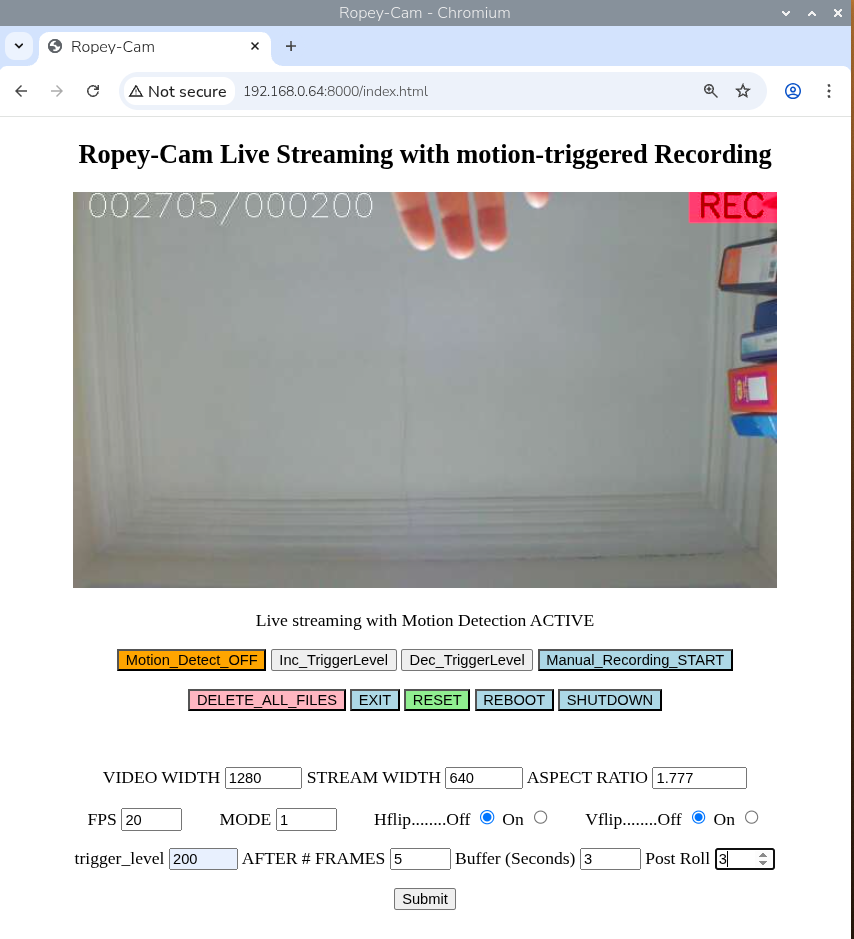
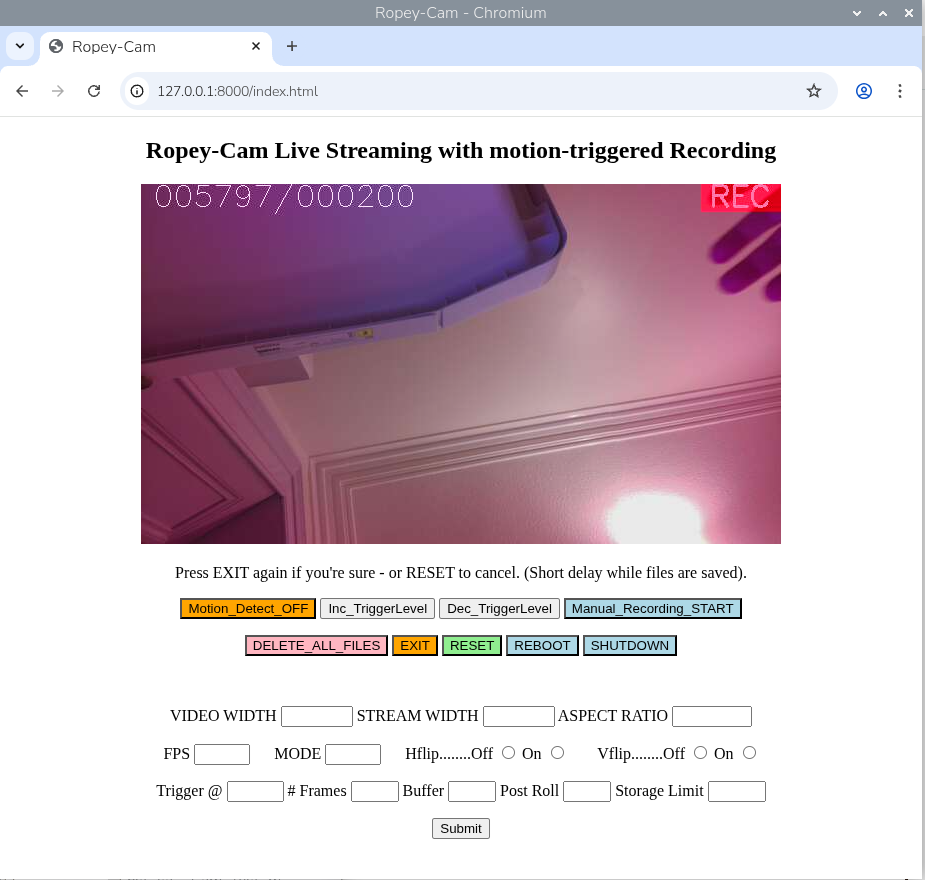
Update README and docs to reflect the latest changes to the application

diff --git a/docs/general_notes.md b/docs/general_notes.md
@@ -10,49 +10,67 @@ As R-C is based on Picamera2/libcamera it should be compatible with all Raspberr
 #### Video sizes and FrameRates
 The default configuration is 1280x720 @ 20fps for the recorded video, and 640x360 (at the same framerate) for the stream to the browser and is conservative and 'should just work' on any supported combination of Pi + Camera module.
 
-Full HD 1920x1080 at 30 fps for the recorded video is best with Pi 4 and above.
+Full HD 1920x1080 at 30 fps for the recorded video is best with Pi 4 and above, although Full HD @ 20fps has been tested successfully on a Pi3A+.
  
-In 4:3 (1.333) aspect ratio the max recommended resolution is 1600x1200, absolute limit is 1672x1254.
+In 4:3 (1.333) aspect ratio the max recommended VIDEO WIDTH is 1600 pixels giving a 1600x1200 frame size.
+
+
+## Description of configuration entry inputs
+----
  
 ![Extract of screenshot showing configuration input section](config_entry_panel.png)
 
-## Description of configuration entry inputs
-When first run R-C will read in the configuration file ropey.ini and apply the values to the relevant application constants and variables. These values can be updated using the input fields, either with individual entries or in any combination followed a press of the Submit button. 
-#### Configuration Fields
+---
+When first run R-C will read in the configuration file ropey.ini and apply the values to the relevant application constants and variables. These values can be updated using the input fields, either with individual entries or in any combination followed by a press of the Submit button. 
+### Configuration Fields
 
-The VIDEO WIDTH field will accept values from 1024 to 1920 in steps of 32 pixels, to match the optimal alignments supported by the hardware.
-
-The STREAM WIDTH will accept values from 512 to 1280 in steps of 128 pixels to match the Pi5 hardware alignments. (Earlier models supported steps of 64 pixels).
-
-The ASPECT RATIO can be either 1.333 or 1.777 (4:3 or 16:9), and is used to calculate the relevant HEIGHT for each stream.
-
+#### VIDEO WIDTH
+The VIDEO WIDTH field will accept values from 1024 to 1920 in steps of 32 pixels, to match the optimal alignments supported by the hardware, and controls the pixel width of the recorded .mp4 video files.
+#### STREAM WIDTH 
+The STREAM WIDTH will accept values from 512 to 1280 in steps of 128 pixels to match all Pi model hardware alignments. (Earlier models supported steps of 64 pixels, but 128 is required for Pi 5).
+#### ASPECT RATIO
+The ASPECT RATIO can be either 1.333 , 1.777 or 2.221  (4:3 , 16:9  or 20:9), and is used to calculate the relevant HEIGHT for each stream.  (No sensor modes support native 20:9 but the system will readily crop a 16:9 mode and give a wide format 20:9 video output or stream).  
+#### FPS
 The framerate FPS can be set between 10 and 30 fps in steps of 5.
-
+#### MODE
 The MODE selects one of the fundamental operating modes of the camera;
 those shown when queried with  `rpicam-hello --list-cameras`
 
 Typically MODE 0 will give a cropped and binned low resolution mode.
-MODE 1 will give a full-frame 2x2 binned mode (except HQ where it gives full-width 16:9 mode and mode 2 is needed for full frame). Other higher modes may be useful in limited circumstances.
 
-The Hflip and Vflip switches can be used to vertically or horizontally mirror the video frame or invert it if used together. 
-### Trigger_level
-After testing the application in the intended environment and finding the optimum trigger_level with the Inc/Dec controls it may be easier to input the value directly, particularly if large changes are needed.
+MODE 1 will give:-
 
-### Consecutive frames of 'motion'
+ a full-frame 2x2 binned 16:9 mode on HQ and V3 camera modules 
+ 
+ a full frame 2x2 binned 4:3 mode on V1 and V2 camera modules
+ 
+Mode 2 will give a full-frame 2x2 binned 4:3 mode on an HQ module.
+
+Other higher modes may be useful in limited circumstances.
+#### Hflip Vflip
+The Hflip and Vflip switches can be used to vertically or horizontally mirror the video frame or invert it if used together. Applies to both recorded and streaming frames. 
+### Trigger @
+After testing the application in the intended environment and finding the optimum trigger_level with the Inc/Dec controls it may be easier to input the trigger-level for motion detection value directly, particularly if large changes are needed.
+
+### # Frames
 To help ensure the triggering is caused by 'true motion' the current default setting of AFTER # FRAMES is to wait for 5 consecutive frames with a 'Frame Difference' above the trigger_level, before activating recording.
  
 
-### Length of Circular Buffer and Post-roll 
-The current default of buffer_seconds is set to 3 seconds, and while longer values are possible, longer values will increase the memory requirements. The post-roll is also set to 3 seconds and can be increased to capture more of the post-motion imagery.
+### Buffer and Post-roll 
+The current default of buffer_seconds is set to 3 seconds, and controls the length of the circular buffer that is capturing frames from before the trigger moment. Longer values are possible, but will increase the memory requirements.
 
+### Post Roll
+The post-roll is also set to a default 3 seconds and can be altered to capture more or less video following the cessation of motion.
+
+### Storage Limit
+
+To help avoid the disk/card running out of storage space the disk_usage is checked after each video file is stored and if the ratio of used/total space exceeds this limit the oldest files will be deleted.
+
+The default is 80% (0.8) A value closer to 1.0 may be useful with lower capacity storage cards. Lower values may be appropriate for large capacity cards. 
     
 ## Configuration storage
-Any configuration changes made are stored internally after being submitted but are not applied 'on-the-fly' and only written to the .ini file on EXIT/SHUTDOWN or REBOOT, to take effect on the next startup.
+Configuration changes are stored internally after being submitted or entered, but are not applied 'on-the-fly'. The changes are written to the configuration ropey.ini file on EXIT/SHUTDOWN or REBOOT, and will take effect when the file is read on the next startup.
 
-
-## Disk storage management
-
-To help avoid the storage disk/card being filled with video files the max_disk_usage is checked after each video file is stored and if the ratio of used/total space exceeds the max the oldest files will be deleted. 
 
 ## Timestamps
 The recorded video files have a date and time stamp embedded in the frame data. The time includes a millisecond record and is useful for checking for dropped frames.  By single-stepping through the recorded files the millisecond counter should advance by ~ 1000 / FRAMES_PER_SECOND each frame. A jump between frames of more than this would indicated dropped frames in the encoded video file.  Playing back the files using mpv media player, rather than the default vlc, can be useful with it's more flexible forward/backward single stepping and easier access to the video properties information.  

diff --git a/README.md b/README.md
@@ -2,9 +2,9 @@
 
 ### Ropey-Cam is a Python-based surveillance camera system, designed for Raspberry Pi single-board computers with attached camera modules. The system provides real-time, low-latency, MJPEG video streaming to web browsers, while simultaneously monitoring for motion, and recording high-quality H.264/.mp4 video clips when motion is detected.
 
-As a long term user of the comprehensive [RPi_Cam_Web_Interface](https://github.com/silvanmelchior/RPi_Cam_Web_Interface) with various RPi cameras (V1,V2 and HQ), it was frustrating not being able to use third party cameras or any of the later RPi camera modules with RCWI. Unable to find any libcamera/Picamera2 based alternatives, and as a learning exercise, work started on a basic -*very basic*- alternative.
+As a long term user of the comprehensive [RPi_Cam_Web_Interface](https://github.com/silvanmelchior/RPi_Cam_Web_Interface) with various RPi cameras (V1,V2 and HQ), it was frustrating not being able to use third party cameras e.g IMX462, nor any of the later RPi camera modules with RCWI. Unable to find any suitable  libcamera/Picamera2 based alternatives, and as a learning exercise, work started on this basic -*very basic*- alternative.
 
-For those looking for more comprehensive features, the very fully featured [raspi-cam-srv](https://github.com/signag/raspi-cam-srv) is recommended.
+For those looking for more comprehensive features, the very fully featured [raspi-cam-srv](https://github.com/signag/raspi-cam-srv) is recommended. 
 
 "Ropey-Cam" reflects its construction methodology: it is assembled from code snippets and examples from the Picamera2 repository, with minimal Python complexity, and uses a multi-threaded architecture to handle concurrent operations. In it's basic form, when installed on a RPi with the standard desktop OS, the only additional dependency is OpenCV.
 
@@ -63,7 +63,7 @@ Brief description of the effect of the control buttons, some of which may be fam
 The button text describes the action that will be taken when the button is pressed, while the colour indicates the current state of that control active/inactive.
 
 **Motion_Detect_Off**
->  will disable the motion detection, but retain the live stream.
+>  will disable the active motion detection, but retain the live stream.
 
 > will be replaced by Motion_Detect_On after being pressed.
 
@@ -93,8 +93,7 @@ The button text describes the action that will be taken when the button is press
 **REBOOT**
 >will reboot the Raspberry Pi. 
 
->Best used in an advanced set-up where Ropey-Cam has been set to 
-start on boot up.
+>Best used in an advanced set-up where Ropey-Cam has been set to start on boot up.
 
 **SHUTDOWN**
 > will shutdown the Raspberry Pi.
@@ -103,7 +102,8 @@ start on boot up.
 
 >All four of the system control buttons change colour to indicate a 'primed' state after the first press. 
 
----
+See the General Notes linked at the bottom of the page for a description of the configuration input fields below the main control buttons.
+
 
 ### Pre-deployment configuration
 
@@ -115,7 +115,7 @@ The default configuration is currently :-
 
 16:9 output with a 1280x720 main stream resolution and 640x360 for the browser stream, and a framerate of 20 fps.
 
-The sensor default mode is set to 1, which will typically give a full frame (16:9) 2x2 binned mode on HQ and V3 cameras, or a full frame (4:3) 2x2 binned mode on V1 or V2 cameras. Details on the available changes are in the General Notes section at the bottom of the page.
+The sensor default mode is set to 1, which will typically give a full frame (16:9) 2x2 binned mode on HQ and V3 cameras, or a full frame (4:3) 2x2 binned mode on V1 or V2 cameras. 
 
 Other recommended steps before deploying are:-
 

diff --git a/docs/lite.md b/docs/lite.md
@@ -1,11 +1,14 @@
 ## Instructions to configure a Lite installation
-Although a full RPiOS is recommended for all Pi variants, if using a Pi Zero2W or 3A+ you may want to run on a Lite installation, to have a bit more memory 'headroom'.
+Although a full RPiOS is recommended for ease of use on all Pi variants, if using a Pi Zero2W or 3A+ you may want to run on a Lite installation, to have a bit more memory 'headroom'. If running a remote headless camera it would be sufficient to use a Lite version of the OS on any Pi model.
 
->Flash a new 64bit Lite image to a card, with SSH configured.
+ To prepare a Lite installation:-
 
->Insert card into the Pi with a connected camera module.
 
->Power on and *wait* until the full image installation and reboot sequences are complete. (Could take up to 15 minutes with a slow SD card! )
+>Flash a new 64bit Lite image to a card,with WiFi, User details and SSH pre-configured.
+
+>Insert the card into the Pi with a connected camera module, and preferably with a monitor connected, (to help follow the progress of the installation process and to take note of the assigned IP address). 
+
+>Power on and *wait* until the full image installation and reboot sequences are complete. (Could take up to 10 minutes with a slow SD card and/or a slower Pi model!)
 
 >SSH in to the Pi and :-
 
@@ -23,7 +26,7 @@ Although a full RPiOS is recommended for all Pi variants, if using a Pi Zero2W o
 
 `./Ropey-Cam.py`
 
-Then continue as per the main page documentation to point a browser at the Raspberry Pi. (Wait about 10-15 seconds to allow all the libraries to load and for the camera to be initialised).
+Then continue as per the main page documentation use another device to to point a browser at the Raspberry Pi. (Wait about 15-30 seconds to allow all the libraries to load and for the camera to be initialised).
 
 At this point you should see the image from the camera in the browser page and messages about the status in the terminal window.
 
@@ -42,6 +45,6 @@ Or, to avoid the console and error messages filling up the nohup output log :-
 
 A screenshot from a Pi5 browser accessing Ropey-Cam.py running on  Pi3A+,  with two ssh sessions attached, one with htop running and a second running Ropey-Cam, along with a samba share connected  - shows markedly lower memory usage than the 'Desktop' version running on a Pi3B that was shown in the main page.
 
-The latency in this case was ~200ms but was much more consistent than the Desktop version. This consistency *may* be due to the lower overall CPU usage under the Lite OS?
+The latency indicated in the screenshot in this case was ~200ms, while the range seen over a number of captures was typically 130-220ms.
 
 ![Lite Installation screenshot from a Pi400](lite_screenshot.png "Screenshot")

diff --git a/docs/start_on_boot.md b/docs/start_on_boot.md
@@ -1,10 +1,13 @@
 ## Start on reboot
 
+In a headless mode it will be convenient if the application starts on any boot of the system. These instructions describe how to achieve this with a systemd service.
+
+
 First create a systemd file on the 'Ropey-Cam' Raspberry Pi :-
 
 `sudo nano /etc/systemd/system/ropeycam.service`
 
-Then insert the following lines, replacing the two instances of username with *your* username
+Then insert the following lines, (if copying and pasting remember to replace the two instances of username with *your* username)
 
 ```
 [Unit]
@@ -24,16 +27,59 @@ WantedBy=multi-user.target
 ```
 Ctrl + X, Y followed by Enter to exit and save.
 
-Then enable the service
+### Inform the system of the new service file
 
 `sudo systemctl daemon-reload`
+
+### Enable the service to start automatically on boot
 
 `sudo sytemctl enable ropeycam.service
 `
 
 After this point the script should be executed on next reboot as well as subsequent reboots.
 
-To temporarily disable, to allow editing of the Ropey-Cam code for example 
+### The following summarises common systemd commands for managing the ropeycam.service:
+
+#### To start the service immediately:-
+
+`sudo systemctl start ropeycam.service`
+
+which will manually launch Ropey-Cam without rebooting
+
+
+#### To stop running the service:-
+
+`sudo systemctl stop ropeycam.service`
+
+Which will halt RopeyCam (will restart on next boot if still enabled)
+
+#### To stop and start the service:-
+
+`sudo systemctl restart ropeycam.service`
+
+Which will apply any configuration changes from ropey.ini
+
+#### To view the service status:-
+
+`sudo systemctl status ropeycam.service`
+
+Which will check if service is active, and present recent logs
+
+#### To enable auto-start on boot
+`sudo systemctl enable ropeycam.service`
+
+Which will configure the service to launch after installation
+
+#### To disable auto-start
 
 `sudo systemctl disable ropeycam.service`
+
+Which will prevent service from launching on boot (for code editing)
+
+#### To follow the service logs
+
+`journalctl -u ropeycam.service -f`
+
+Which will begin real-time log monitoring for debugging
+
 

diff --git a/docs/samba.md b/docs/samba.md
@@ -41,7 +41,6 @@ path = /home/username/Ropey-Cam
 available = yes
 browsable = yes
 writeable = yes
-read only = no
 create mask = 0777
 directory mask = 0777
 public = no
@@ -68,7 +67,11 @@ Then start the samba service.
 
 And to ensure it starts on reboot 
 
-`sudo systemctl enable smbd`
+`sudo systemctl enable smbd
+
+Verify the service status with
+ 
+`sudo systemctl status smbd`
 
 ---
 
@@ -80,7 +83,11 @@ On a Pi with the standard File Manager, open the Go menu and select Network
 
 Or on a Pi with Thunar, open the Go menu and select Browse Network
 
-The network share with the server device name should appear and opening it should lead to the Ropey-Cam share and two other shares defined in the samba configuration.
+The network share with the server device name should appear and on opening it a credentials request may appear.
+
+Fill in any requested credential request  with the registered username and samba password.
+
+You should then have access to the Ropey-Cam share and two other shares defined in the samba configuration.
 
 Open the Ropey-Cam shared folder and the files and the Videos sub-folder should be available for browsing.
 
@@ -94,7 +101,7 @@ On a Windows (11) PC open the File Explorer and in the Home search bar enter
 
 replacing the IP address with the address of *your* Raspberry Pi server device.
 
-The share should open.
+Again fill in any requested credentials and the share should open.
 
 To make a more permanent link go to This PC and from the ... menu select Map Network drive and fill in the prompted details, using the same \\\server\share format.
 
